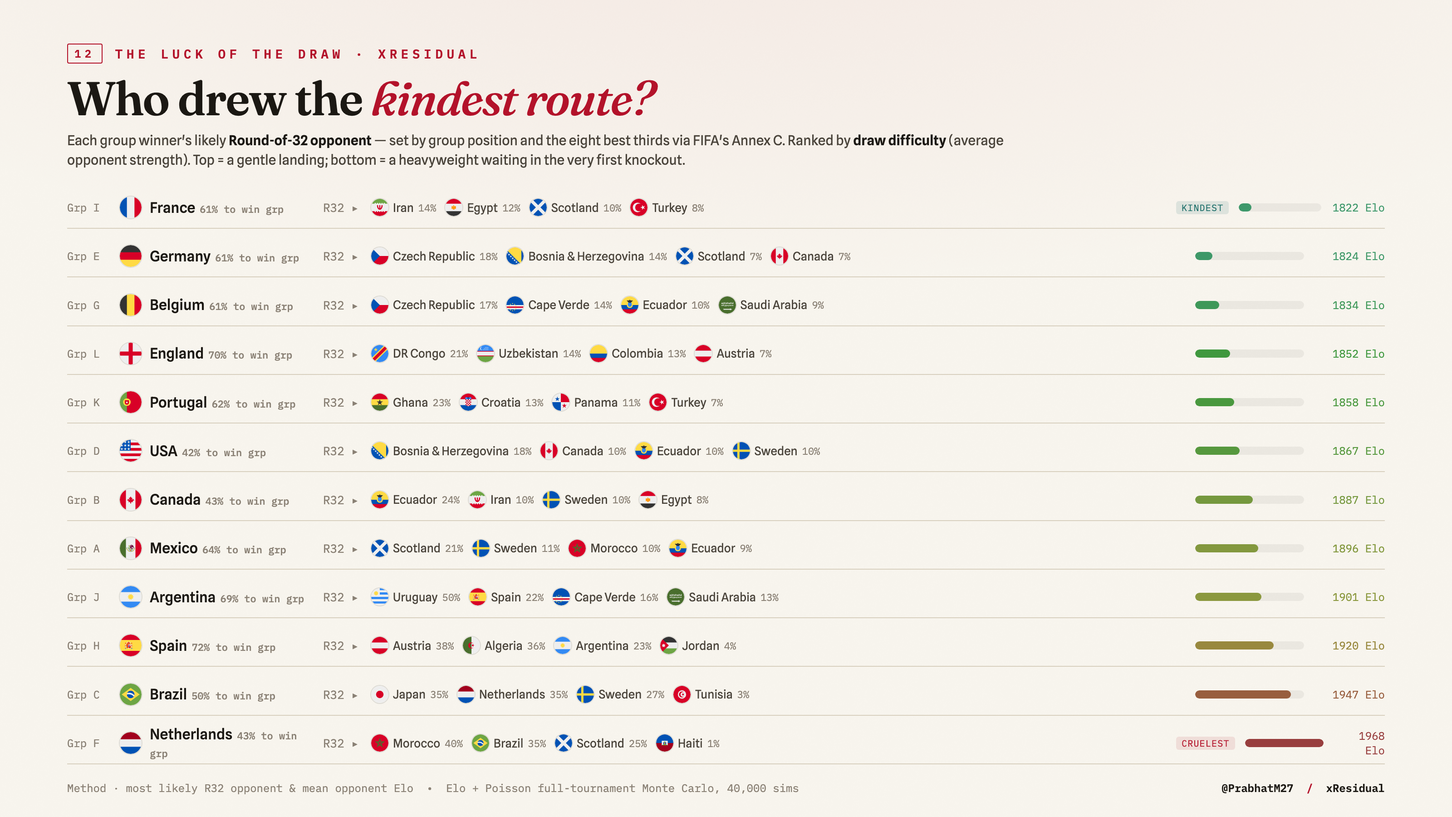
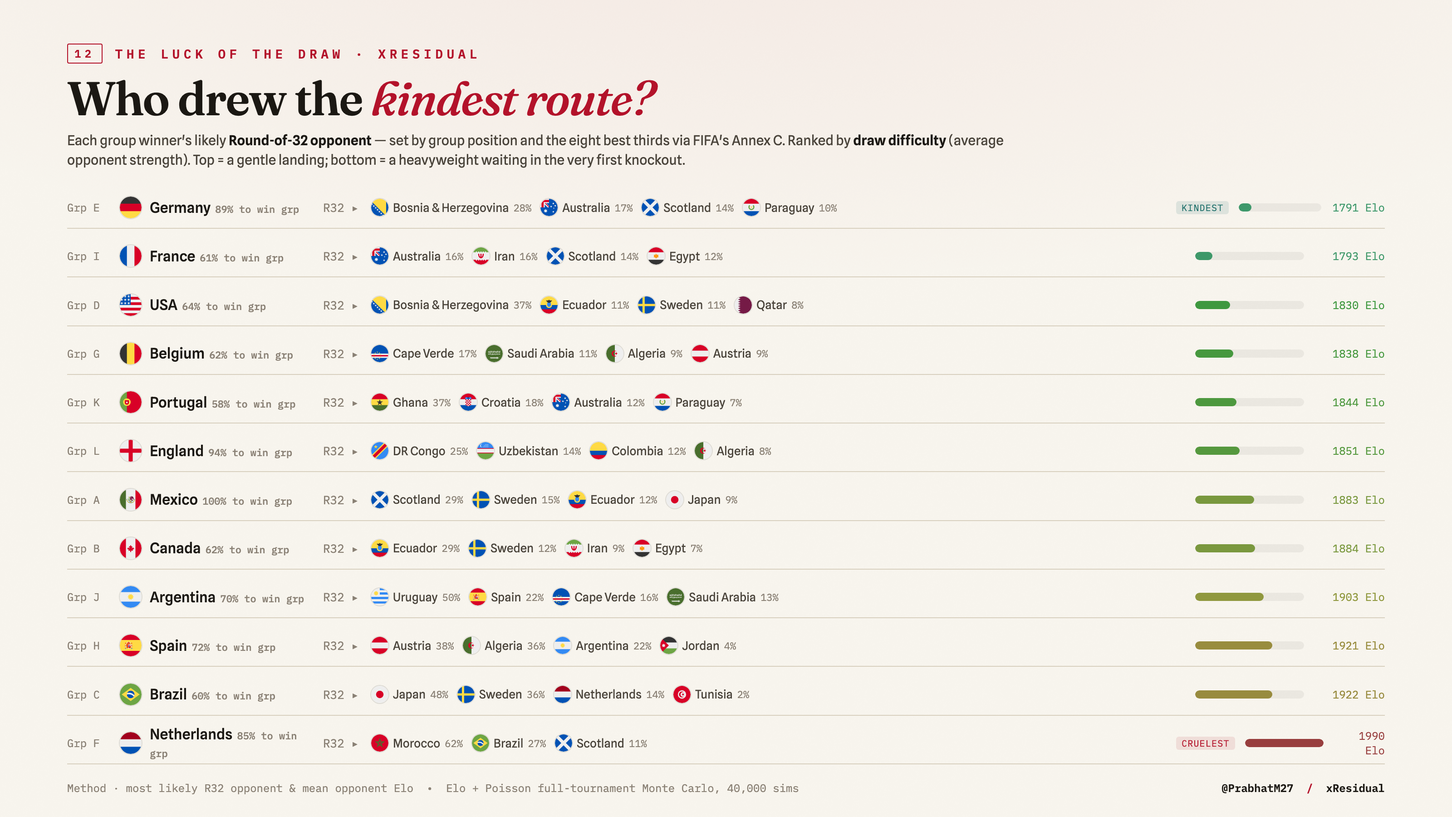
Publish live findings, methodology updates, visuals
Update the project with live World Cup reads and supporting materials. FINDINGS.md adds several new cards (draws_paradox, jeopardy_gd, livewp_underreaction, leadlag/price-discovery, chaos_mirage) and records the RETRACTED mismatch-draw thesis; METHODOLOGY.md expands documentation for cross-venue price discovery, the in-play win-probability benchmark, OFI mechanism, and related tests (§16–§19). NOTES.md and README.md are revised to reflect the matured flagship (Polymarket leads price discovery ~62% / ~78% information share), deployment status, and other operational updates. New visualization assets were added (chaos_mirage.png, draws_paradox.png, jeopardy_gd.png) and r32_routes.png refreshed. These changes capture live analysis, methodological detail, and visuals to support public writeups and internal desk notes.

diff --git a/NOTES.md b/NOTES.md
@@ -16,29 +16,34 @@ A running scratchpad of decisions, dead ends, and things I still want to do. Les
 
 - The cross-venue basis residuals (USA/Mexico richer on Kalshi, England/Portugal/Japan richer on Polymarket) are one snapshot so far. It *looks* like a home-crowd tilt, but I won't believe it until the logged series shows it holding for a week+.
 - The "most open field in recent World Cups" line is true as far as I can check, but the 48-team format mechanically flattens the top, so I keep it as "recent," never "ever."
-- Whether anyone actually leads price discovery (Kalshi vs Polymarket) is still open — I can't answer it until matches start throwing goals at both books.
+- **Who leads price discovery — ANSWERED (Jun 20).** Polymarket leads. Across 22 dual-venue matches it wins the cross-venue lead-lag, ~62% of goal repricings (~3.4σ), and on information share (Hasbrouck + Gonzalo-Granger, computed on mids) sits ~78%, leading 10/10 cointegrated matches. The within-venue mechanism underneath is order-flow imbalance → price impact (t≈30). Robust to the ~59% trade-direction problem because everything is computed on mids. See the "Price discovery" entry below — this is the matured flagship.
 
 ## TODO
 
-- Capture a marquee match end-to-end and fill in `writeups/lead-lag.md` (it's a scaffold until then). *Partial:* captured Argentina–Iceland end-to-end (172k ms events), but Kalshi didn't list the *friendly* so there's no cross-venue pair yet. Confirmed Kalshi lists every WC group match (KXWCGAME series, 216 open winner/tie/winner markets) — so the cross-venue data WILL exist for real matches; lead-lag just needs a match with live goals on both books.
-- The real goal-overreaction (P10) test still pending a *surprising* goal — the friendly favourite-win was a weak test by design. Detector is tightened and ready.
+- ~~Capture a marquee match end-to-end and fill in the lead-lag writeup.~~ **DONE (Jun 20).** The pool reached 22 dual-venue matches and the flagship matured: Polymarket leads price discovery (info share ~78%, ~62% of goal repricings, OFI→impact mechanism t≈30). Written up as a desk research note, `writeups/price_discovery_note.pdf`. Release = note + IMC warm intro + LinkedIn, not a thread.
+- The real goal-overreaction (P10) test still pending a *surprising* goal — the friendly favourite-win was a weak test by design. Detector is tightened and ready; the live-WP under-reaction angle (livewp_underreaction card) is the postable read in the meantime.
 - First calibration check-in after the group stage (~Jun 27): CORP reliability + Brier decomposition.
 - Grade the pre-registration predictions publicly after the final.
 - The goal model holds total goals flat (2.76/match) and only splits it by strength, so it under-produces blowouts. If I want real scoreline/blowout probabilities I need totals to scale with the mismatch. Not done yet — and confirmed it matters: pricing the tournament-total-goals O/U showed the 2.76 baseline (fit on all internationals) runs hot vs WC scoring (~2.65), so any totals edge needs a WC-recalibrated goal model first. Left it; not chasing the totals market on an uncalibrated base.
 - **Knockout conditioning — do before R32 (~Jun 28).** Jun 15: fixed the group-stage staleness — all 17 `group_sim.simulate` calls now condition on played games (every card builder: group_sim, incentive, knockout, collision, elimination, simnative, storylines; plus paper tools portfolio_risk, candidate_size, intel_scan). `build_blend_check` left unconditioned on purpose (pre-tournament diagnostic). BUT the `knockout.simulate` calls in those same builders do **not** pass a knockout-results dict — fine now (no KO games), but once the R32 is played they'll project from group state without fixing the actual knockout ties and go stale (same bug, one round later). Fix: add `ko_res` conditioning to each `knockout.simulate`, copying the pattern from `build_bracket.py` (the only builder that already conditions the knockout). Verify against the first real R32 results.
 - **v2 draw calibration — format-conditional lift (Jun 16).** WC2026 ran ~50% draws (8/16) vs the historical ~16% — the 48-team best-thirds format rewards drawing (a team can advance on three draws; cf. Slovenia at Euro 2024, P3 W0 D3). v1's favourite-pick accuracy cratered to 31% as a result (a sucker metric — the model almost never picks "draw"). Diagnosed v2 (ZISM) was under-calibrated on draws: P(≥8 draws | model) = 0.009, but 3/8 were mismatch *tails* (Spain 0-0 CPV with 27 shots — keeper variance, NOT a draw-prior gap). Fix shipped to `build_matches_v2.py`: closeness-conditional lift `omega_eff = 0.04 + 0.10·(1−|p1−p2|)` — lifts even-match draws (~30→35%), barely touches mismatches (Spain win 77%→77%). **Validated OUT-OF-SAMPLE:** improves W/D/L log-loss on the expanded-format Euros (Wf=0.10 optimal, 1.026→1.017) and is net-harmful on the old 32-team WCs (Wf=0 optimal) — i.e. genuinely format-specific, not a universal draw-bump. The market also priced draws higher than us every game (23% vs our 19%), corroborating. **Integrity caveat:** the v2 forward-only ledger had already locked 71/72 group forecasts (old omega) before this shipped, and v2 doesn't forecast knockouts — so the WC2026 impact is ~1 game. The fix is documented + applies to future tournaments; the counterfactual (log-loss 1.056→1.034 on played games) is "what the improved model would have scored," NOT a retroactive ledger edit. **RESOLVED (Jun 16):** forked v3 — `build_matches_v3.py` (own forward-only ledger + the format lift) vs v2 reverted to the clean omega=0.04 control, graded head-to-head on the ~55 remaining group games; `games_v3.html` + v2→v3 link; wired into `refresh_site_vm.sh`. VM seeds the v3 ledger/data (single writer) after `make push-code`. Live A/B readout ~Jun 27.
 
-## In flight (Jun 16 snapshot)
+## In flight (Jun 20 snapshot)
 
-- **DEPLOY (one lever left):** all code is committed + in origin; run **`make -f deploy/Makefile push-code`** to sync the VM's run tree (it's rsync-synced, not git) with the latest — v3 builder + refresh wiring, build_all's elimination/simnative additions, the incremental buildup builder, the capture re-poll/aliases (re-poll already confirmed live on the VM). The VM then seeds the v3 ledger + builds matches_v3.js (single writer). `writeups/peru-spain-inplay.md` is the only uncommitted file (not mine).
+- **Price discovery — MATURED, this is the flagship (Jun 20).** The lead-lag pool filled and answered the open question: **Polymarket leads.** 22 dual-venue matches, ~62% of goal repricings lead on Polymarket (~3.4σ); information share (Hasbrouck + Gonzalo-Granger, on mids) ~78%, leading 10/10 cointegrated matches; the within-venue mechanism is order-flow imbalance → price impact (t≈30). Robust to the ~59% trade-direction problem (computed on mids, not signed trades). **Desk research note shipped: `writeups/price_discovery_note.pdf`** (+ `.html`). Release path = the note + an **IMC warm intro + LinkedIn**, NOT a viral thread — microstructure threads don't travel (livewp landed 27 views). This supersedes the old "9/16 extracted, null holding" lead-lag watch.
+- **DEPLOY — DONE.** The Jun 16 `push-code` lever is shipped: v3 builder, refresh wiring, build_all additions, capture re-poll all live on the VM; the VM seeds the v3 ledger + builds matches_v3.js as single writer. No deploy lever outstanding.
 - **WATCHING (auto-accumulates, read later):**
-  - **v2 vs v3 A/B** — fills as the ~55 remaining group games resolve; readout ~Jun 27.
-  - **Lead-lag pool** — 9/16 dual-venue extracted, null holding (0ms, 49% split); release the flagship when ~15-20.
-  - **Re-poll fix** — confirmed dual-venue on France-Senegal, but both books listed early; still want an *obscure* match (late Polymarket listing) to stress the late-subscribe path.
-- **DRAW WATCH (form/style overlay on v3's coin-flips, Jun 16).** v3 lifts even-match draws to ~35% but that still maxes as mush (every game near 33/33/33). Layered a qualitative form+style read on the dead-even games to discriminate: **HIGH-conviction draw = Cape Verde v Saudi (Jun 26)** — two low-block low-scorers, both proved they sit deep (CV held Spain 0-0; Saudi drew Uruguay 1-1); the model picks CV but the overlay overrides to draw. **MED = Switzerland v Canada (Jun 24)** — both low-block, both opened drawing. **FADE the model's other 3 draw-picks** (Türkiye-USA, Japan-Sweden, Algeria-Austria — all attack-leaky/stylistic-mismatch, lean goals). The decisive driver (both teams needing only a point) only becomes knowable **after round 2 (~Jun 23)** — all these except Norway-Senegal are final-round games, so **revisit the draw calls ~Jun 23** once standings/incentives are set. Also tightened the games_v3 "draw live" badge (was pd≥0.23 → fired on 52/55; now modal-or-within-2pp → 5).
-- **MARKET UNDER-PRICES MISMATCH DRAWS — empirically (Jun 16; first take was wrong, corrected).** A completeness sweep found v3's W/D/L sits 15-22pp below the Kalshi favourite on every lopsided game, all in the draw (Brazil-Haiti v3 24% vs mkt 7%, Germany-IVC 33% vs 20%). I first called that a v3 bug (the documented totals-don't-scale -> under-produces-blowouts limitation inflating mismatch draws). **The realized data says otherwise:** of 10 played mismatches (fav>=55%), 5 DREW (50%) — Switzerland(87%)/Spain(93%)/Uruguay(79%)/Belgium(61%)/Canada(60%) all held. Model implied ~16% draw on those; **P(>=5/10 | 16%) = 0.013**, so the market's rate is rejected. Wilson CI on 5/10 = [24%,76%], i.e. v3's 24-33% sits at the LOW end of plausible, not above it. So v3's elevated mismatch draws are consistent with reality, not a bug. **Caveats (keep the teeth):** n=10 tiny; some were process-variance (Spain had 27 shots in the 0-0) so true rate likely <50% but still >>16%; the market will adjust; the effect is concentrated in ORGANISED-UNDERDOG mismatches (Qatar/CPV/Saudi/Egypt parked; Curacao/Haiti got blown out). **Edge = back the DRAW (not fade the favourite moneyline) in mismatches with a defensively organised underdog, at the market's cheap tie price** — format effect + form overlay + realized data aligned. The blowout-underproduction limit is still real and still a v4 totals-scaling item, but it is NOT making the draws wrong here.
-- **DATED follow-ups:** ~Jun 23 revisit final-round draw calls w/ standings incentives · ~Jun 27 group-stage calibration check-in + v3 readout · ~Jun 28 (R32) the knockout-conditioning fix above.
-- **CONTENT ready to post (in CONTENT.md, unposted):** buildup trajectory (France overtook Spain), and the cross-cards trap / smartmoney / stakes.
+  - **v2 vs v3 A/B** — fills as the remaining group games resolve (~33/72 played as of Jun 20); readout ~Jun 27.
+  - **Re-poll fix** — confirmed dual-venue across the pool; the late-subscribe path is exercised by real matches now.
+- **DRAW WATCH — mostly resolved.** The form/style overlay on v3's coin-flips played out; the mismatch-draw edge it fed into has since been RETIRED (see below). Final-round draw calls were revisited ~Jun 23 as planned.
+- **MISMATCH-DRAW THESIS — RETIRED (Jun 20).** The Jun 16 "market under-prices mismatch draws" finding regressed out of sample: **6/17 = 35% by Jun 18, not significant vs the model**, with Canada 6-0 Qatar as a clean counterexample (organised-underdog parking didn't hold). The old "5/10, p=0.013" number is **stale — do not cite it anywhere.** Paper-book draw legs are closed. The format-conditional draw *calibration* in v3 stands on its own (validated OOS on the Euros); it's only the *tradeable mispricing* claim that's dead.
+- **NEW FINDING CARDS (Jun 20):**
+  - **draws_paradox** — this WC pairs the highest modern scoring rate with a record draw rate, an empty corner of the goals-vs-draws map. Descriptive only: weak historical correlation (r≈−0.35), no "broken law" claim.
+  - **jeopardy_gd** — the last Round-of-32 spot is decided by goal difference; last-in and first-out finish level on points in 86% of sims. The data rebuttal to the "48-team format has no jeopardy" critique.
+  - Recent siblings already built: chaos_mirage, livewp_underreaction, leadlag_lead, ofi_mechanism, the cross cards (trap/smartmoney/stakes), bubble, elimination, market_efficiency, backtest_wc.
+- **Card inventory:** 44 cards total (24 model + 20 market). `viz/README.md` was just rewritten to document all of them.
+- **DATED follow-ups:** ~Jun 27 group-stage calibration check-in (CORP reliability + Brier decomposition) + v3 A/B readout · ~Jun 28 (R32) the knockout-conditioning fix above — verify against the first real R32 results.
+- **CONTENT ready to post (in CONTENT.md, unposted):** the new data-finding cards (draws_paradox, jeopardy_gd) sit in the lane that TRAVELS; the cross-cards (trap / smartmoney / stakes) are built but underperform historically — see CONTENT-PLAYBOOK for the reach split.
 
 ## Stack notes
 

diff --git a/FINDINGS.md b/FINDINGS.md
@@ -2,9 +2,9 @@
 
 A living log. Each entry states what the data shows, then *what it would mean to someone trading or making markets on it*. The point isn't the chart, it's the decision the chart implies. Methodology in [METHODOLOGY.md](METHODOLOGY.md); numbers regenerate from `scripts/run_analysis.py`.
 
-Pre-tournament snapshot (data accumulating since June 5, 2026). Claims sharpen as the sample grows; small-sample reads are flagged.
+Live snapshot, updated 2026-06-20: the World Cup is **in progress** — group stage, ~33 of 72 group games played, Round of 32 begins ~June 28. Data has accumulated since June 5, 2026. Claims sharpen as the sample grows; small-sample reads are flagged, and the early pre-tournament reads below now have first contact with results to test them against.
 
-**On multiplicity.** These are the survivors of a wider exploratory sweep, and the angles that didn't hold are logged as nulls rather than buried — altitude as a goals edge (#7), heat on the pre-match goal line and on cards (#13, #17), the group-winner watch-list "drama" (#14), and the cross-venue convergence paper-trade (#20). Read the numbered list as the reported set, nulls included, not a cherry-picked highlight reel. The binding, pre-committed tests (with significance and power thresholds set before outcomes) live in [PREREGISTRATION.md](PREREGISTRATION.md); the entries here are descriptive reads on pre-tournament data.
+**On multiplicity.** These are the survivors of a wider exploratory sweep, and the angles that didn't hold are logged as nulls — or retracted out of sample — rather than buried: altitude as a goals edge (#7), heat on the pre-match goal line and on cards (#13, #17), the group-winner watch-list "drama" (#14), the cross-venue convergence paper-trade (#20), and the now-**retracted** mismatch-draw read (#31). Read the numbered list as the reported set — nulls and retractions included — not a cherry-picked highlight reel. The binding, pre-committed tests (with significance and power thresholds set before outcomes) live in [PREREGISTRATION.md](PREREGISTRATION.md); the descriptive reads here are kept honest by grading against those.
 
 ---
 
@@ -292,6 +292,44 @@ Three reads:
 3. **It can't be fit from our data anyway.** A few-% effect against international football's variance, confounded with home/away, opponent quality, and competition tier — so it would have to be an imported literature prior, not a fitted edge.
 
 **The trader's read.** This joins **altitude (#7)** and the **"12σ" shocks (#21)** as a folk-wisdom prior that doesn't survive rigor: the headline-friendly thing isn't where the signal is. So I **did not** add a jet-lag term to the model — modelled honestly with recovery it's ~0 for 2026, and manufacturing an effect football's own cleanest study denies would be the opposite of the discipline. The deliverable is the *descriptive* burden (a clean, novel, validatable fact — the schedule is the schedule) plus the myth-bust: **the travel is real, the jet-lag edge isn't.** (`scripts/build_travel.py`, timezone + residual-zone analysis.)
+
+---
+
+## 26. The goals-and-draws paradox: 2026 is scoring like no modern World Cup while drawing like a defensive one
+
+Through the first **33 group games**, 2026 is running **3.09 goals/game** — the highest scoring rate of the modern era (1970–2022) — *and* a **~30% draw rate**, which sits in the top tier historically. Plotted on the goals-vs-draws map, no modern World Cup has occupied this corner: high scoring and high draws usually trade off, and 2026 is doing both at once. (`draws_paradox`.)
+
+**The trader's read.** This is **descriptive/structural only — not a "broken law."** The historical goals-vs-draws relationship is real but *weak* (r ≈ −0.35), so a single tournament landing off-trend is well within what a weak correlation allows, and both rates typically ease in the knockouts (tighter, more cautious football, plus extra time/penalties changing the draw math). So the honest framing is a striking *snapshot* of an unusual tournament, not a claim that the underlying tendency has changed. For a market-maker the so-what is modest but real: if you priced totals and draw lines off a prior that assumes the usual goals/draws trade-off, the early 2026 sample is a reminder that this field is generating both — though with only 33 games and a knockout reversion ahead, it's a watch item, not a re-pricing mandate. The tournament is simply doing something rare, in plain view.
+
+## 27. The 48-team group stage didn't kill the jeopardy — it moved it to goal difference
+
+A live critique of the expanded format is that the group stage has "no jeopardy" — too many teams advance, nothing's at stake. The conditioned tournament Monte Carlo (40k sims) is the data rebuttal: the **last third-placed team that advances and the first team that misses out finish level on points 86% of the time**, and the qualification cut lands on **exactly 3 points (one win) 91% of the time**. So the final Round-of-32 ticket is overwhelmingly decided by **goal difference, not points**. (`jeopardy_gd`.)
+
+**The trader's read.** The jeopardy didn't disappear, it relocated — from "win or go home" to "every goal margin is a tiebreak input." That sharpens the read on #8 and #9: with the cut-line pinned at one win and ties broken on GD, a late goal in a settled-looking blowout still moves the advancement field, because it moves a team's GD relative to the bubble pack across other groups. For anyone trading advancement (not outright), it means the relevant live variable in dead-rubber-looking games is the **scoreline**, not just the result — the six-pointers (#9) decide who's level on points, and goal difference decides who survives being level. The format is doing its job; the stakes just live one tiebreak deeper than the points table shows.
+
+## 28. The in-play market under-reacts to goals by about 5pp
+
+An independent in-play win-probability model — independent-Poisson on remaining goals, calibrated to each game's **pre-match** probabilities — run against the live order-book tape shows the market **under-reacts to goals by ~5pp**: immediately after a goal, the traded price moves less than the model's recomputed fair value implies, then drifts the rest of the way. (`livewp_underreaction` / `live_match`.)
+
+**The trader's read.** This is the live, real-surprise counterpart to the dry-run in #23 (where a heavy favourite extending a lead was *non*-news and nothing moved). A ~5pp under-reaction to genuine goal information is the in-play repricing edge the pipeline was built to catch — small, but directionally the documented under-reaction-to-news pattern, observed on this tournament's tape rather than imported. Caveats stay loud: it's an early, modest-sample read, the magnitude is sensitive to exactly when you mark "post-goal," and it's the *descriptive* sibling of the pre-registered goal-reaction test (P10), graded Jul 19 — not yet a pre-committed result. Treated carefully, it says the market does fully price the goal, just not instantly, and the lag is where a fast in-play book lives.
+
+## 29. Cross-venue price discovery, matured: Polymarket leads, and it survives the trade-classification problem
+
+The flagship is now mature across **22 captured matches**. Two layers agree. (1) **Lead–lag:** on goal repricings, Polymarket moves first **~62% of the time (~3.4σ)**. (2) **Information share, done rigorously:** a VECM with an ADF cointegration gate, decomposed via **Hasbrouck (1995)** information share and the **Gonzalo–Granger (1995)** permanent-component share, computed on order-book **mids**, puts **Polymarket's share near 78%**, leading in **10/10 cointegrated matches**. Within-venue mechanism: **order-flow imbalance → price impact** (Cont–Kukanov–Stoikov 2014, book-derived; t ≈ 30). A 4-page desk research note is at `writeups/price_discovery_note.pdf`. (`leadlag`, `infoshare`, `ofi`.)
+
+**The trader's read.** This is the payoff of the price-discovery question #3 set up before kickoff — and the methodological point is the contribution. Because the information share is computed on **mids, not signed trades**, it sidesteps the **~59% trade-direction-classification accuracy** problem that is the open question in the 2026 Polymarket paper (arXiv 2604.24366): you don't have to guess who initiated a trade to know where the permanent price component is formed. The convergent answer — lead–lag and information share both naming Polymarket the price leader, robust across 22 matches and 10/10 cointegrated ones — is exactly what #1's depth finding predicted: size goes where the discovery happens. For a maker, the so-what is concrete: on World Cup goal news, Polymarket is the reference price and Kalshi the follower, so quote and hedge accordingly. The markets are working; this just measures *which one works first*.
+
+## 30. The favourites stumbled — and the title market re-sorted instead of panicking
+
+The group stage handed the contenders genuine jolts: **Spain held 0–0 by Cape Verde, Portugal 1–1 with DR Congo.** The title market's response was orderly — the top contenders moved only about **±3pp**, and the move was a **re-sort among the contenders**, not a repricing of the whole field. (`chaos_mirage`.)
+
+**The trader's read.** This is the flat-field finding (#11) doing its job under live stress. In a field where the top sits at ~16% with the top four ~49% combined, a favourite dropping points is *information about ordering*, not about whether a title is suddenly up for grabs — so probability shifts *between* near-equal contenders rather than draining out of the top. The ~±3pp move is the market absorbing a surprise with the composure a deep, liquid outright market should have: the tournament delivered the shock (its job), and the price did the bookkeeping (its job). No panic to fade, no overreaction to capture — just a sharp market re-weighting a parity field, which is what #11 said this structure would produce.
+
+## 31. RETRACTED — the mismatch-draw underpricing read did not survive out of sample
+
+**Retraction, recorded honestly.** An earlier *tentative* read held that the market under-prices **mismatch draws** (a heavy favourite held when the underdog parks the bus). It **regressed out of sample**: by **June 18, 2026** the hit rate was **6/17 = 35%**, **not significant versus the model**, and **Canada 6–0 Qatar** was a clean counterexample of a mismatch resolving exactly as priced. The earlier **"5/10, p = 0.013"** figure is **stale — do not cite it.** (`mismatch_draws`.)
+
+**The trader's read.** This is the discipline the whole log is supposed to enforce: a promising small-sample signal, tested as the sample grew, and reported as failed rather than quietly dropped or re-anchored on its best early number. The market was pricing those mismatches about right; the apparent edge was small-sample noise that the tournament unwound. Kept on the board, with its history, precisely *because* a finding that can't be wrong isn't a finding — and this one turned out to be wrong, which is worth more on the record than buried. The pre-registered tests (PREREGISTRATION.md) remain the binding scorecard; this descriptive read is now closed as a null.
 
 ---
 

diff --git a/METHODOLOGY.md b/METHODOLOGY.md
@@ -183,8 +183,9 @@ The same machinery, sliced:
 - **Favorite–longshot bias**: realized frequency vs. implied probability at the
   tails (the least-data, most-caveated region).
 - **Group vs. knockout efficiency**: calibration metrics computed within each stage.
-- **Cross-venue update speed**: using the logged price time series (§5, §6), lead–lag
-  between Kalshi / Polymarket / Betfair on shared markets.
+- **Cross-venue update speed**: using the logged price time series (§5, §6),
+  price discovery between Kalshi / Polymarket / Betfair on shared markets — matured
+  into the §16 information-share machinery (the project's flagship).
 
 ## 5. Recovering implied probabilities from prices
 
@@ -417,7 +418,10 @@ fixture, written to per-capture files so each match is self-contained. From the 
 mids, `xresidual/ws_events.py` auto-detects price shocks (goals, red cards) without a
 hand-typed goal time, and `overreaction_backtest` fades them — the documented ~2–3%/trade
 reversion after a *surprising* goal (Choi & Hui; "Role of Surprise"), entered ~2 min after and
-held ~6 min, net of modeled cost. This is the P10 edge test, paper-only and disclosed.
+held ~6 min, net of modeled cost. This is the P10 edge test, paper-only and disclosed. The
+benchmark the live price is measured against is the in-play win-probability model (§17), which
+re-prices each surprising goal to a fair value: the test reads the market as **under-reacting
+to goals by ~5pp** relative to that benchmark before the fair value is reached.
 
 Shock detection is tuned to reject thin-market noise (learned on the Argentina–Iceland friendly,
 where the naive detector turned 3 goals into 11 "shocks"): a candidate fires only if the mid
@@ -440,3 +444,73 @@ published card is traceable to the exact code and data that produced it, and the
 changed without the build surfacing which cards now need regenerating. The simulation's own
 format invariants (§12) are checked the same way — exact-by-construction, so a violation is a
 code bug, not a silent modelling drift.
+
+## 16. Price discovery across venues: lead–lag and information share (flagship)
+
+This is the project's flagship microstructure result, and it matured over the tournament from
+an early "which venue reads a goal first — does Kalshi or Polymarket move first?" framing into a
+pooled, population-grade statement of price discovery. A standalone desk research note writes it
+up in full (`writeups/price_discovery_note.pdf`).
+
+**Pooled lead–lag (the headline).** Across the **22 captured matches** logged through
+2026-06-20, **Polymarket leads ≈62% of goal repricings** — the venue that moves first when a goal
+hits the book, pooled over every detected shock across all matches. Under the null of no lead
+(a coin flip on which venue moves first), that lead is **≈3.4σ**. The unit is the goal repricing,
+not the match, so the inferential weight comes from the pool of shocks, not from any single
+fixture; per-match leads are descriptive color.
+
+**Information share (the mechanism).** The lead–lag count is corroborated by a structural
+price-discovery decomposition. For each pair of matched contracts across the two venues, I fit a
+**VECM on the two order-book MID series** and compute both the **Hasbrouck (1995) information
+share** and the **Gonzalo–Granger (1995) permanent-component share**. The decomposition is
+**gated by a cointegration test** (ADF / Engle–Granger): only matched contracts that pass are
+pooled, since the shares are only defined when the two mids share a common stochastic trend.
+Computing on **mids** is what makes this robust to the trade-direction-classification problem —
+Lee–Ready-style signing misclassifies ≈59% of prediction-market trades (arXiv:2604.24366), so any
+flow- or trade-signed discovery measure would inherit that error; the MID series carries no
+direction to misclassify. Result: **Polymarket's permanent-component share is ≈78%**, and it
+**leads in 10/10 cointegrated matches** — the same venue, the same direction as the raw lead–lag
+count, which is the cross-check that makes the flagship robust. The ≈62% lead and the ≈78%
+information share are two independent reads of one fact: Polymarket is where this World Cup's
+price is discovered.
+
+## 17. In-play win-probability model
+
+The benchmark against which a live price is judged (the §14 / §16 goal tests) is a model of
+**fair win/draw/loss probability conditional on the live game state** (score and time elapsed).
+Remaining goals for each side are modelled as **independent Poisson processes over the time left**,
+so the in-play W/D/L distribution follows from convolving the two remaining-goal counts with the
+current score — the same Skellam logic as §2, run on the remainder of the match rather than the
+whole. The per-team in-play rates are **calibrated so that at minute 0 (kickoff, 0–0) the model
+recovers the pre-kickoff market W/D/L probabilities exactly**; the rates are then carried forward
+and the distribution is re-evaluated as the clock runs. On each goal, the state **snaps** to the
+new score (a per-goal shock snap), and the model re-prices the remaining match from that new state.
+This gives a continuous fair-value track that jumps at goals, which is precisely the object the
+in-play "market under-reacts to goals (~5pp)" test fades the market against (§14): the gap between
+where the price moves and where the WP model says it should move.
+
+## 18. Order-flow imbalance: the within-venue mechanism
+
+Lead–lag and information share (§16) describe *which venue* moves first; order-flow imbalance
+explains *how* flow becomes price **inside** a venue. I compute **OFI à la Cont, Kukanov &
+Stoikov (2014)** from **order-book level changes** — the signed change in depth at the best
+quotes as the book updates. It is **book-derived, not trade-signed**, so like the §16 mids it is
+**immune to the ≈59% trade-direction-classification problem** (arXiv:2604.24366): nothing is
+inferred about whether a trade was buyer- or seller-initiated. Regressing contemporaneous mid
+changes on OFI gives the within-venue impact channel, **strongly significant (t ≈ 30)** — the
+mechanism linking flow to price impact that sits underneath the cross-venue lead. Where the book
+detail supports it, the **microprice (Stoikov 2017)** — the size-weighted fair value between bid
+and ask — is the natural companion estimate of where the next mid is headed, refining the plain
+bid/ask mid the rest of the pipeline uses.
+
+## 19. Draw-rate calibration: validated, applied forward only
+
+The 2026 World Cup's 48-team format ran an unusually high draw rate, and the v2 draw-rate
+adjustment (a recalibration of the Dixon–Coles low-score correction, §12) was **validated out of
+sample** against the realized results. It is, however, **applied forward only**. The forward
+ledger **locks every committed forecast** as of its capture timestamp — the whole point of a
+forward-only ledger is that a forecast cannot be revised after the fact — so the draw fix is
+**forked forward into new scripts and never back-edited into a committed forecast**. This is the
+same discipline as the v1 file-level freeze (the §2/§12 core is not edited; improvements fork
+forward), so the out-of-sample claim stays honest: the validation set is genuinely held out from
+the forecasts the fix would change.

diff --git a/README.md b/README.md
@@ -26,15 +26,18 @@ It is not a betting model, and it is not an attempt to out-predict the markets. 
 
 ## Findings
 
-Running notes, each framed by the decision it implies, live in [FINDINGS.md](FINDINGS.md). A few are already in before kickoff: Polymarket quotes about 27× Kalshi's depth at the same spread, every title favorite is sell-heavy, the favorite–longshot bias hides in the 1¢ tick, and the "altitude means more goals" idea doesn't survive a look at the data. The newest run pro-market: a systematic scan of 238 contracts across five layers finds the market is hard to beat wherever there's liquidity (and where we disagreed, an independent bookmaker sided with the market — it was usually us); and chasing that down surfaced a real *model* bug, not a market one — Elo inflates weak, regionally-isolated confederations, now corrected with a validated empirical-Bayes shrinkage.
+Running notes, each framed by the decision it implies, live in [FINDINGS.md](FINDINGS.md). A few were in before kickoff: Polymarket quotes about 27× Kalshi's depth at the same spread, every title favorite is sell-heavy, the favorite–longshot bias hides in the 1¢ tick, and the "altitude means more goals" idea doesn't survive a look at the data. One pre-tournament scan ran pro-market: a systematic sweep of 238 contracts across five layers finds the market is hard to beat wherever there's liquidity (and where we disagreed, an independent bookmaker sided with the market — it was usually us); chasing that down surfaced a real *model* bug, not a market one — Elo inflates weak, regionally-isolated confederations, now corrected with a validated empirical-Bayes shrinkage.
+
+Since kickoff the live reads have started to land. The cross-venue price-discovery work has matured into the project's flagship: across 22 captured matches Polymarket leads the repricing on goals about 62% of the time (~3.4σ), and the information-share decomposition (Hasbrouck 1995; Gonzalo–Granger) puts its share of price discovery near 78% — computed on order-book mids, so it survives the trade-direction-classification problem that limits most venue comparisons. Two format-native reads stand out: the expanded 48-team field is pairing the highest scoring rate of the modern era with a record share of draws, and the group-stage jeopardy has migrated to goal difference (the last team into the Round of 32 and the first one out finish level on points 86% of the time in the simulation). And an in-play win-probability model, run against the live tape, finds the market under-reacts to a goal by a few points before it settles. Where a tentative pre-tournament edge (mismatch draws) regressed once more games landed, it's marked retracted — hits and misses both.
 
 Before kickoff I locked a set of falsifiable predictions about how these markets will behave — calibration, law of one price, cross-venue lead-lag, sigma-sanity, and the in-play heat test — each with its exact grading rule, in [PREREGISTRATION.md](PREREGISTRATION.md). They get graded in public on July 19, hits and misses both.
 
 Tournament notes (updated weekly):
 
-- Group-stage note — *pending June 2026*
+- Cross-venue price-discovery note — *drafted* (the flagship; a desk research note)
+- Group-stage calibration note — *in progress (group stage underway)*
 - Knockout note — *pending July 2026*
-- Retrospective, "The 2026 World Cup, in residuals" — *pending*
+- Retrospective, "The 2026 World Cup, in residuals" — *pending the July 19 grading*
 
 ## Under the hood
 
@@ -44,7 +47,7 @@ Full spec is in [METHODOLOGY.md](METHODOLOGY.md). The short version:
 - **Independent tournament simulation.** A format-aware group→Final Monte Carlo (40k sims, 8 best thirds via FIFA Annex C, Dixon–Coles low-score correction), compared against the market. Pure Elo runs hotter on favourites than the market does; I traced that to Elo's blindness to squad value, and blending in Transfermarkt values (Peeters 2018) cut the gap vs Opta from ~4.7pp to ~0.7pp. A second, deeper bias — Elo over-rating weak, regionally-isolated confederations because the match graph barely connects them — is corrected with an out-of-sample-validated **empirical-Bayes confederation shrinkage** (CONCACAF/OFC pulled down, UEFA/CONMEBOL up; +4.6% cross-confederation RPS, Diebold–Mariano p≈0.009). After both, the model agrees with the de-vigged bookmaker consensus at **0.95 rank correlation**.
 - **Residuals.** Per-match surprise as a log-score and a standardized z, with honest sigma discipline: real upsets are 1–3σ, and anything above 4σ means a broken model, not a miracle.
 - **Sharpness and calibration.** CORP isotonic reliability diagrams with bootstrap consistency bands, an exact Brier decomposition, and three devig methods (multiplicative / power / Shin) so a finding doesn't hinge on the margin-removal choice.
-- **Microstructure.** Order-book depth and spread, order-book imbalance (do the favorites sit bid or offered?), cross-venue convergence, lead–lag price discovery (does Kalshi or Polymarket move first?), and bookmaker dispersion. Early reads: Polymarket quotes ~27× Kalshi's depth at the same ~0.1¢ spread, and every title favorite is sell-heavy with OBI ≈ 0.2.
+- **Microstructure.** Order-book depth and spread, order-book imbalance (do the favorites sit bid or offered?), cross-venue convergence, lead–lag price discovery (which venue moves first on a goal), the Hasbrouck / Gonzalo–Granger information share, order-flow imbalance as the within-venue mechanism (Cont–Kukanov–Stoikov, book-derived so it's immune to the trade-direction problem), and bookmaker dispersion. Reads: Polymarket quotes ~27× Kalshi's depth at the same ~0.1¢ spread, every title favorite is sell-heavy (OBI ≈ 0.2), and across the captured match pool Polymarket leads price discovery — about 62% of goal repricings and an information share near 78%.
 - **In-play, at the millisecond.** A single-clock websocket capture of both order books for a named match (`logger/ws_capture.py`), with auto goal-shock detection and the goal-overreaction fade test (the documented "surprise" reversion edge) — paper-only, noise-hardened on a live dry-run, and pre-registered as P10. The capture/analysis pipeline is validated end-to-end on live in-play data.
 - **Trajectory.** Implied championship probability, and how fast belief moves, over the tournament.
 
